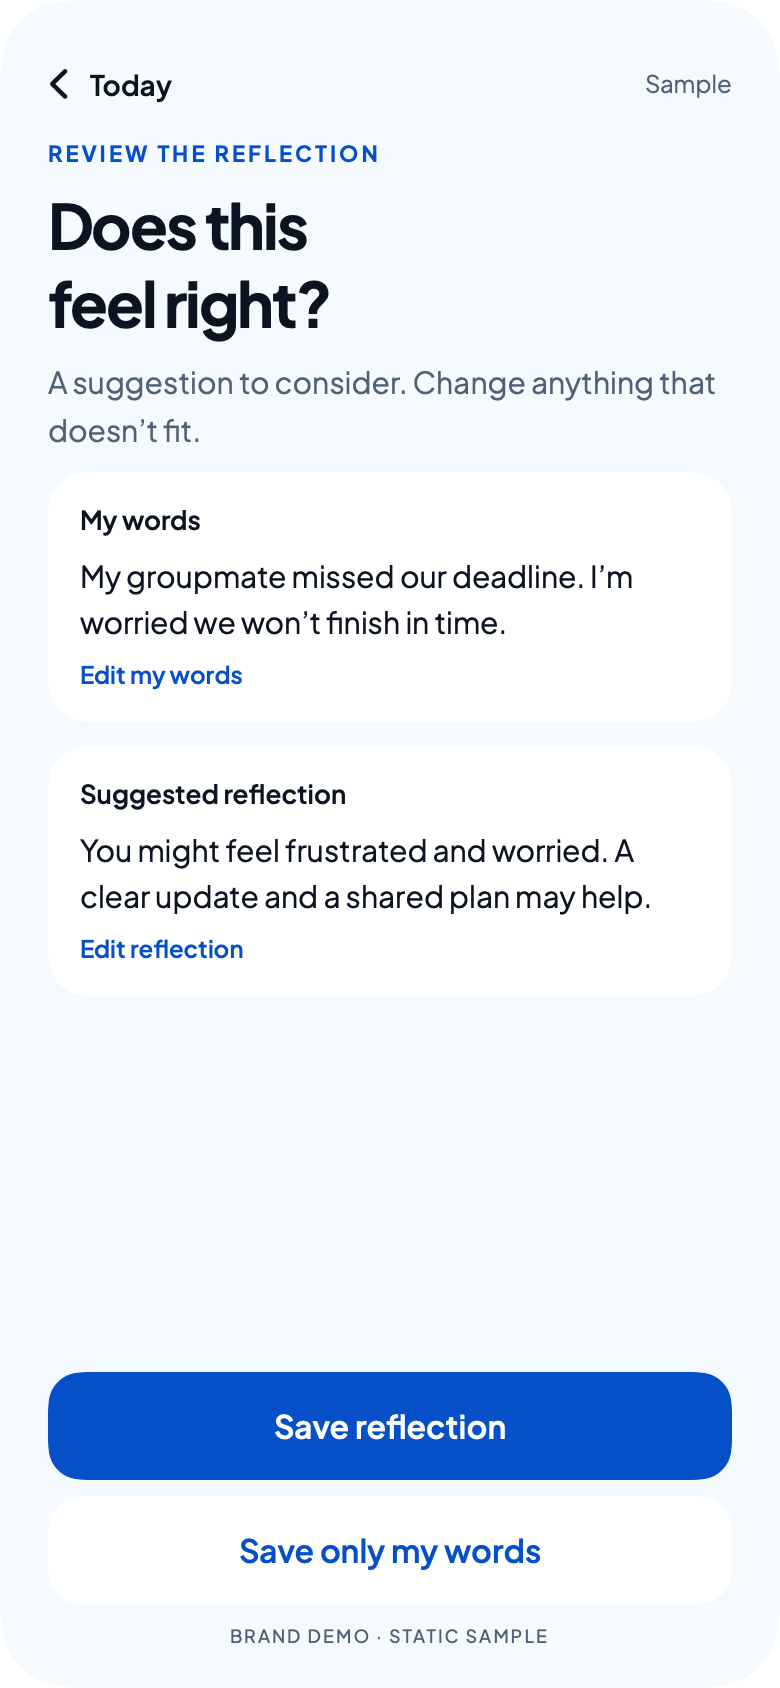
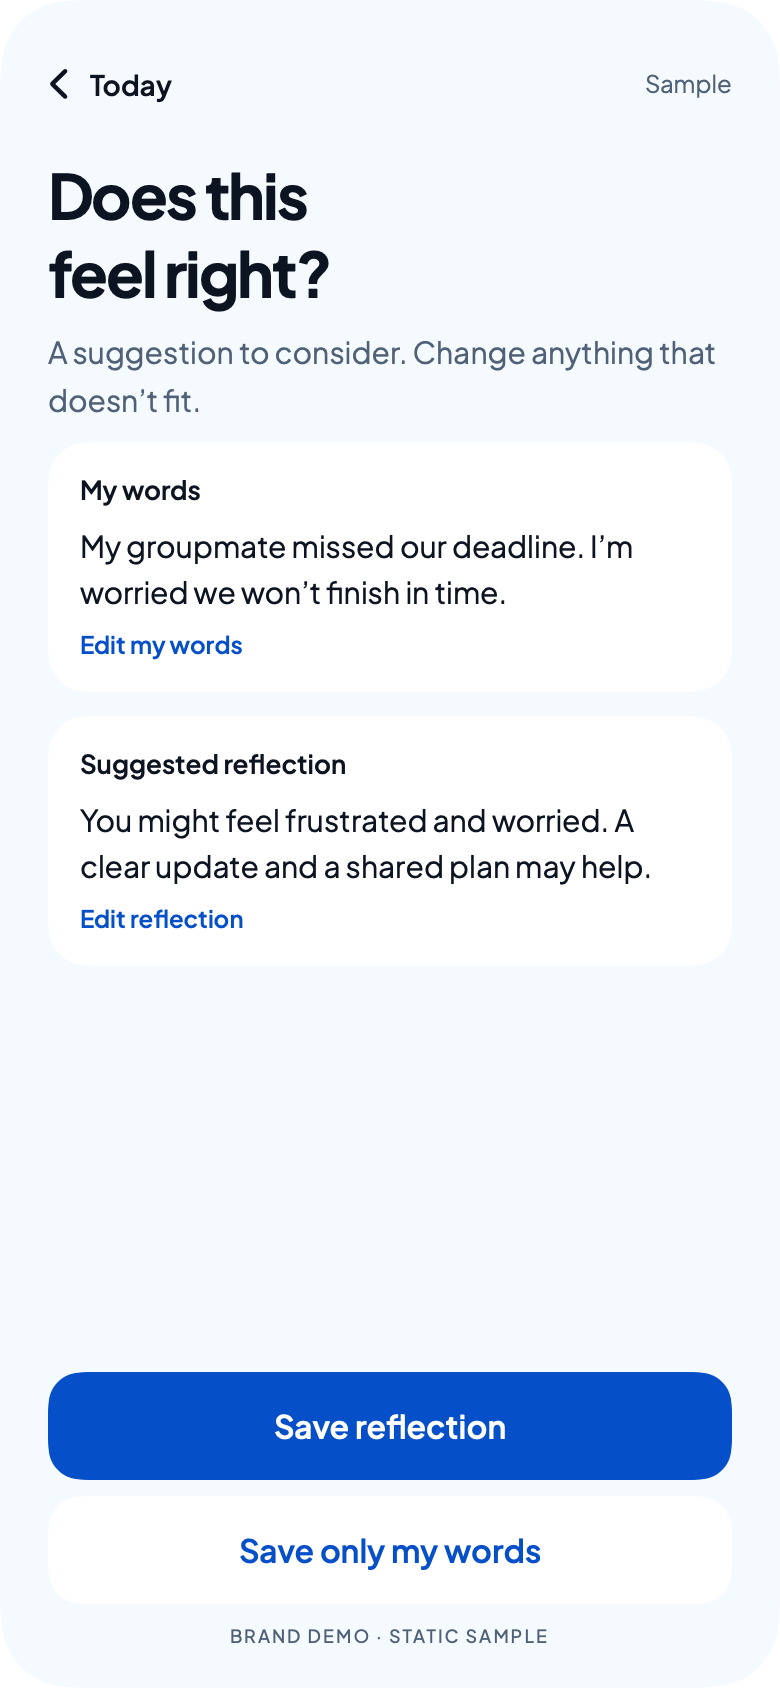
feat(prototype): move sample labels to captions and use tab-name headings
Owner decisions: review labels like DESCRIBE A MOMENT now sit above each
screen in comparison boards instead of inside the phone screen (Sample
chip and footer still mark individual screens), and the Journal and
Practice hubs use the plain tab names as headings. Renders regenerated.

Changed region(s): [[0.0615, 0.0616, 0.9231, 0.5853]]

diff --git a/Prototypes/CircleUVisualPrototype/Sources/CircleUVisualPrototype/BrandJourneyPreview.swift b/Prototypes/CircleUVisualPrototype/Sources/CircleUVisualPrototype/BrandJourneyPreview.swift
@@ -75,9 +75,9 @@ public struct BrandJourneyPreview: View {
                 }
                 .padding(.bottom, 8)
             } else {
-                BrandFixture.eyebrow(linkedContext && screen == .practiceContext
-                    ? (updatedSource ? "UPDATED LINKED CONTEXT" : "PRACTICE FROM AN ENTRY") : screen.eyebrow)
-                BrandFixture.title(screen.title)
+                // Review labels (screen.eyebrow) are captions outside the phone frame, so the
+                // screen itself reads like the app; the Sample chip and footer still mark it.
+                BrandFixture.title(screen.title).padding(.top, 8)
             }
             VStack(alignment: .leading, spacing: 12) { content }
                 .fixedSize(horizontal: false, vertical: true)
@@ -335,8 +335,14 @@ public struct BrandLinkedContextGallery: View {
             Text("The reflection you choose, and the version you review")
                 .font(BrandDemoFont.font(21, .semibold)).tracking(-0.5)
             HStack(alignment: .top, spacing: 24) {
-                BrandJourneyPreview(screen: .practiceContext, linkedContext: true, iconLed: iconLed)
-                BrandJourneyPreview(screen: .practiceContext, linkedContext: true, updatedSource: true, iconLed: iconLed)
+                VStack(alignment: .leading, spacing: 12) {
+                    BrandFixture.eyebrow("PRACTICE FROM AN ENTRY")
+                    BrandJourneyPreview(screen: .practiceContext, linkedContext: true, iconLed: iconLed)
+                }
+                VStack(alignment: .leading, spacing: 12) {
+                    BrandFixture.eyebrow("UPDATED LINKED CONTEXT")
+                    BrandJourneyPreview(screen: .practiceContext, linkedContext: true, updatedSource: true, iconLed: iconLed)
+                }
             }
             BrandFixture.detail("Original and changed-source fixtures · Static review only · Earlier wording is not silently reused", size: 12)
         }

diff --git a/Prototypes/CircleUVisualPrototype/Sources/CircleUVisualPrototype/BrandFlowPreview.swift b/Prototypes/CircleUVisualPrototype/Sources/CircleUVisualPrototype/BrandFlowPreview.swift
@@ -86,13 +86,12 @@ public struct BrandHubPreview: View {
                 }
                 .padding(.top, 12)
                 HStack(alignment: .center) {
-                    BrandFixture.eyebrow(screen.rawValue.uppercased())
+                    BrandFixture.title(screen.rawValue)
                     Spacer()
                     BrandArtwork(name: screen == .journal ? "BrandJournal" : "BrandPracticeV2")
                         .frame(width: 48, height: 48)
                 }
                 .padding(.top, 12)
-                BrandFixture.title(screen == .journal ? "Your moments" : "Find your words")
 
                 if screen == .journal {
                     HStack(spacing: 10) {
